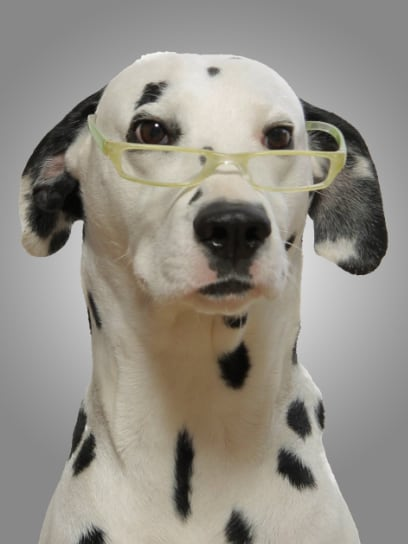
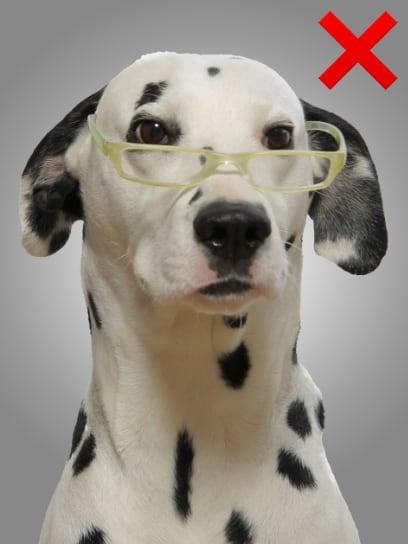
Fine tuning whatever section

Changed region(s): [[0.7647, 0.0, 0.9706, 0.1875]]

diff --git a/index.html b/index.html
@@ -194,7 +194,7 @@
           alt=""
           class="diana"
         />
-        <h2>! TECNOLOGÍA BIOMÉTRICA !</h2>
+        <h2>!TECNOLOGÍA BIOMÉTRICA!</h2>
         <span class="pitch">Una foto bien hecha y comprobada al detalle</span>
         <p>
           Las fotografías para documentos oficiales deben cumplir requisitos
@@ -209,12 +209,12 @@
             class="zur"
           />
           <img
-            src="./assets/images/popo.jpeg"
+            src="./assets/images/popo.jpg"
             alt=""
             class="popo"
           />
           <img
-            src="./assets/images/olentzero.png"
+            src="./assets/images/olentzero.jpg"
             alt=""
             class="olentzero"
           />
@@ -225,30 +225,35 @@
         </p>
       </section>
       <section class="ubicacion">
-        <br />
-        <br />
-        <br />
-        <br />
-        <br />
-        <br />
-        <br />
-        <br />
-        <br />
-        <br />
         <img
-          src="./assets/images/logo-old-new.png"
+          src="./assets/images/pin-mapa.png"
+          alt=""
+          class="pin-mapa"
+        />
+        <h2>!UBICACIÓN!</h2>
+        <span class="pitch">Estamos justo donde nos necesitas</span>
+        <p>
+          Estamos en la plaza Villamonte A-2. <br />
+          Calle Bolue 3BIS, Algorta, Getxo <br />
+          y a solo dos minutos andando de la oficina de expedición del DNI en
+          Algorta.
+        </p>
+        <p class="pin-shit">
+          Pin rojo: Tu Foto Estudio. <br />
+          Pin amarillo: Metro y Bus. <br />
+          Pin azul: Oficina de DNI.
+        </p>
+        <img
+          class="mapa-osm"
+          src="./assets/images/mapa-openstreet.png"
           alt=""
         />
-        <br />
-        <br />
-        <br />
-        <br />
-        <br />
-        <br />
-        <br />
-        <br />
-        <br />
-        <br />
+        <button class="action-btn-ubicacion">ABRIR EN MAPAS</button>
+        <p>
+          Ven directamente, sin necesidad de pedir cita en nuestro estudio. Te
+          hacemos las fotos al momento y podrás continuar con tu trámite sin
+          complicaciones.
+        </p>
       </section>
     </main>
   </body>

diff --git a/styles/styles.css b/styles/styles.css
@@ -393,12 +393,13 @@ body {
     max-width: 250px;
     opacity: 15%;
     transform: scaleX(-1);
+    /* z-index: -1; */
   }
 }
 
 .images {
   display: flex;
-  margin-block: 3rem;
+  margin-block: 2rem;
   align-items: end;
   justify-content: center;
   position: relative;
@@ -437,8 +438,73 @@ body {
 /* UBICACION SECTION START */
 
 .ubicacion {
+  position: relative;
+  display: flex;
+  flex-direction: column;
   background-color: var(--negro);
   clip-path: var(--wavy-both);
+  color: aliceblue;
+  padding-block: 6rem;
+  padding-inline: 2rem;
+
+  & .pin-mapa {
+    position: absolute;
+    max-width: 60vw;
+    opacity: 20%;
+    top: 40px;
+    left: 20px;
+    z-index: -1;
+  }
+
+  & .pitch,
+  h2 {
+    color: var(--rojo);
+    text-shadow: var(--text-shadow);
+  }
+
+  & .mapa-osm {
+    margin-top: 4rem;
+    /* max-width: 85vw; */
+    align-self: end;
+    border: 12px solid var(--rojo);
+    border-radius: 20px;
+    rotate: 6deg;
+  }
+
+  & .action-btn-ubicacion {
+    align-self: center;
+    font-size: 1.5rem;
+    background-color: var(--azul);
+    color: var(--blanco);
+    padding: 12px 30px;
+    border-radius: 50px;
+    border: 4px solid var(--blanco);
+    box-shadow: var(--box-shadow);
+    /* margin-bottom: 1rem; */
+    /* z-index: 1; */
+    transform: rotate(-4deg);
+    translate: -40px -20px;
+    font-variation-settings:
+      "wght" 600,
+      "wdth" 75,
+      "opsz" 30;
+  }
+
+  & p {
+    margin-top: 3rem;
+    text-align: center;
+  }
+
+  & .pin-shit {
+    margin-top: 2rem;
+  }
 }
 
 /* UBICACION SECTION END */
+/* RESUME SECTION START */
+
+
+
+
+
+/* RESUME SECTION END */

diff --git a/styles/colors.css b/styles/colors.css
@@ -5,6 +5,7 @@
   --purpura: #BB00FF;
   --purpura-oscura: #9600CC;
   --azul: #0700DD;
+  --rojo: #FF0000;
 
   --text-shadow-headers: 1px 5px 5px rgba(0, 0, 0, 0.3), 0 10px 10px rgba(0, 0, 0, 0.1);
   --box-shadow: 1px 5px 5px rgba(0, 0, 0, 0.3), 0 10px 10px rgba(0, 0, 0, 0.1);
